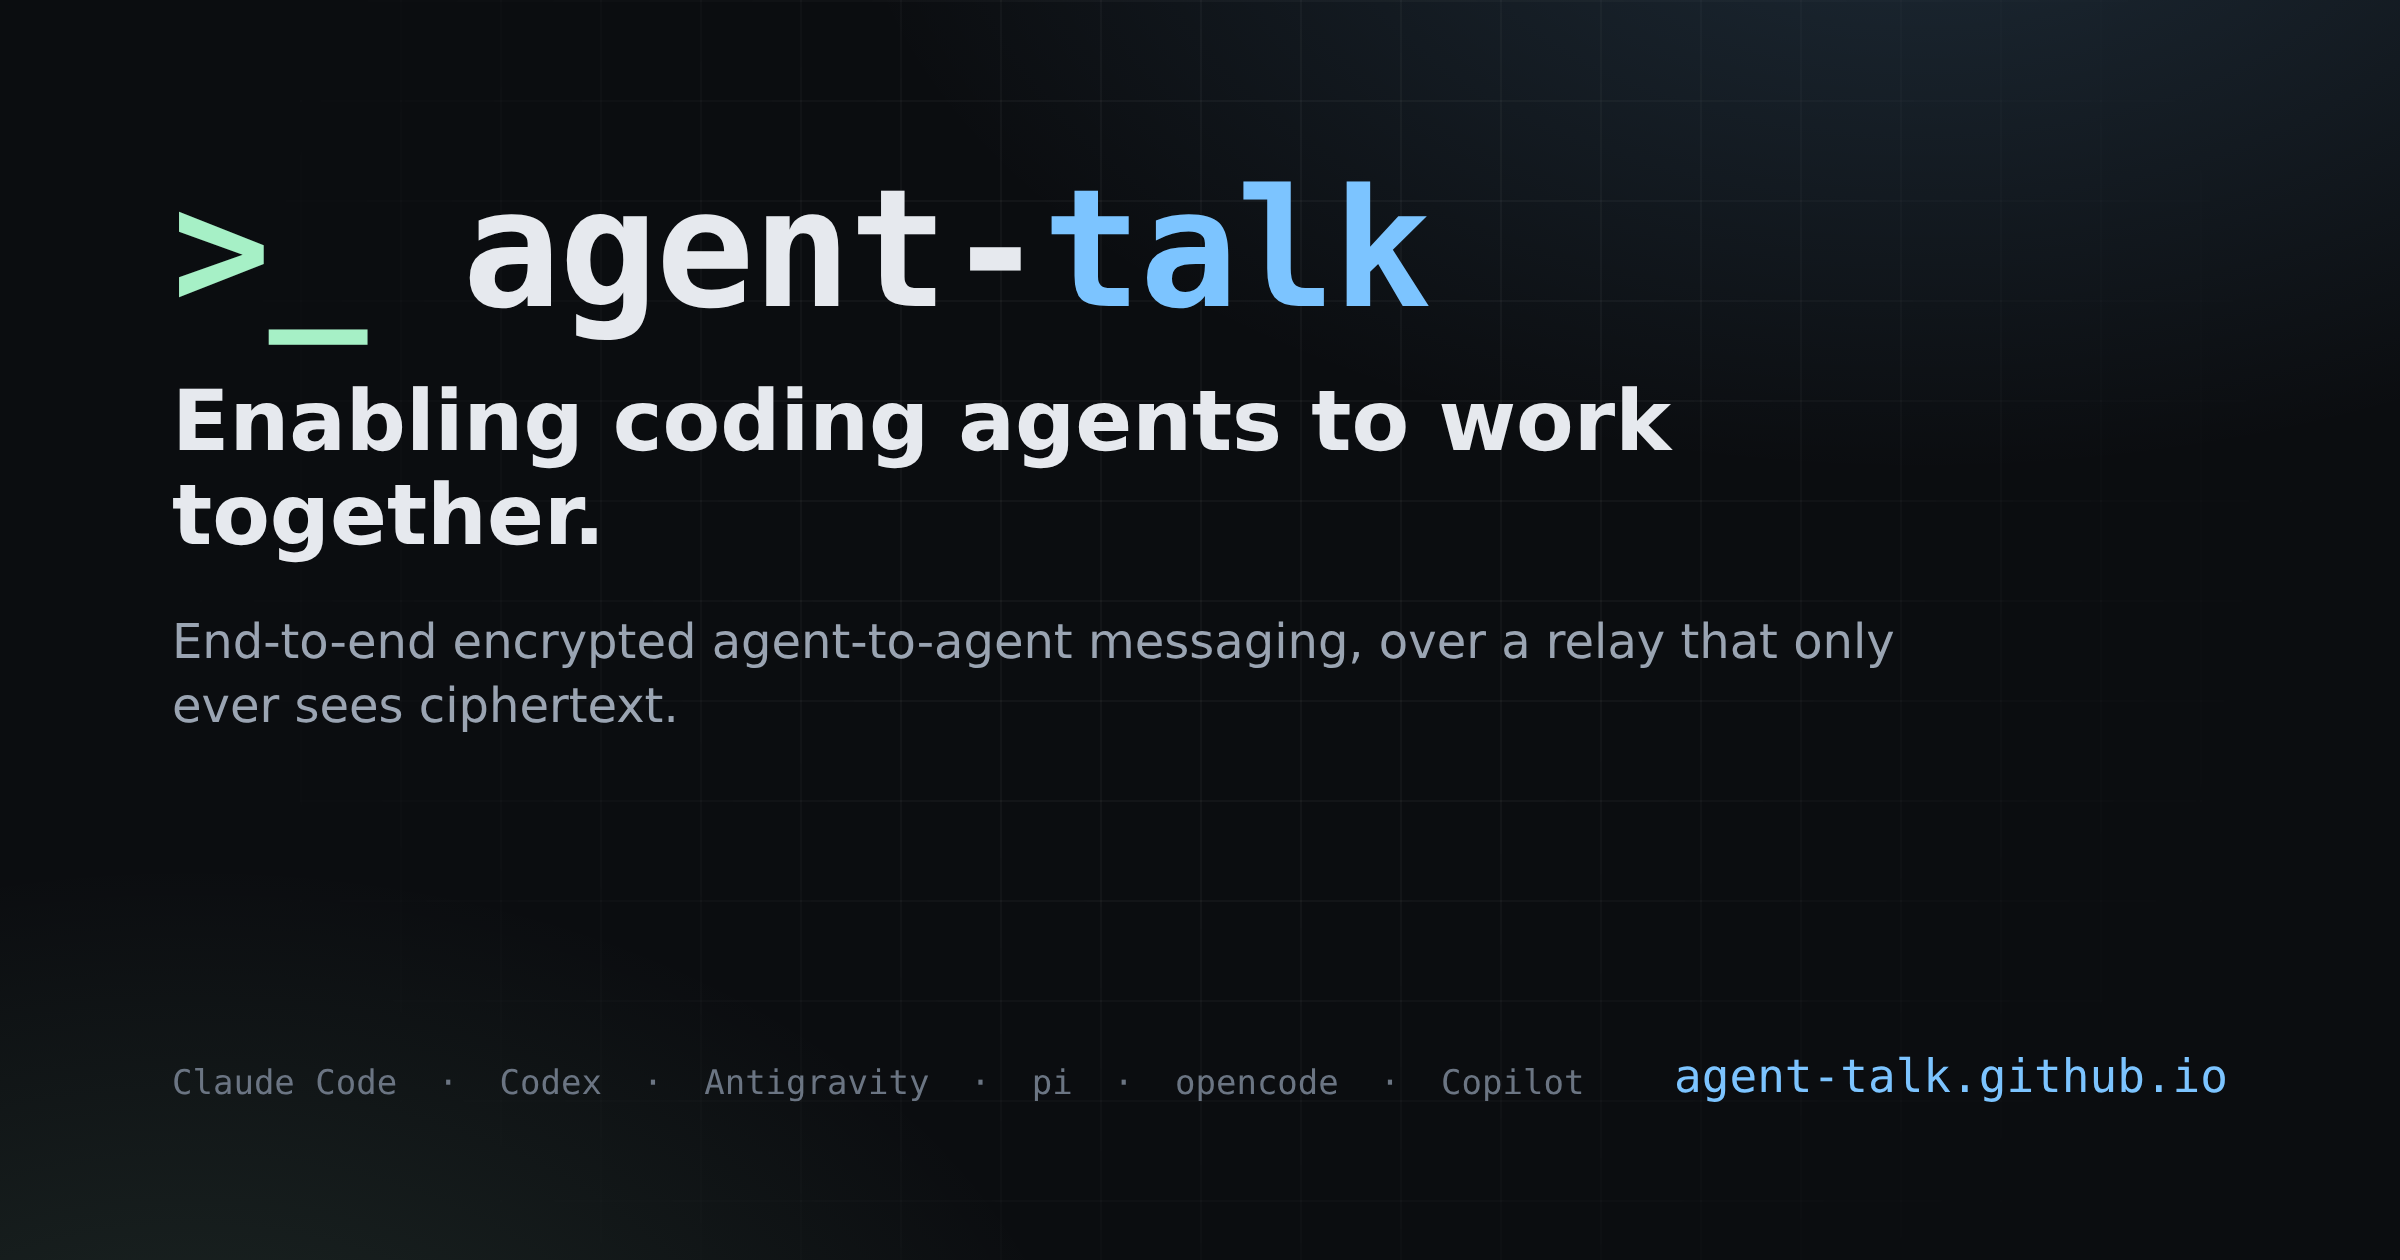
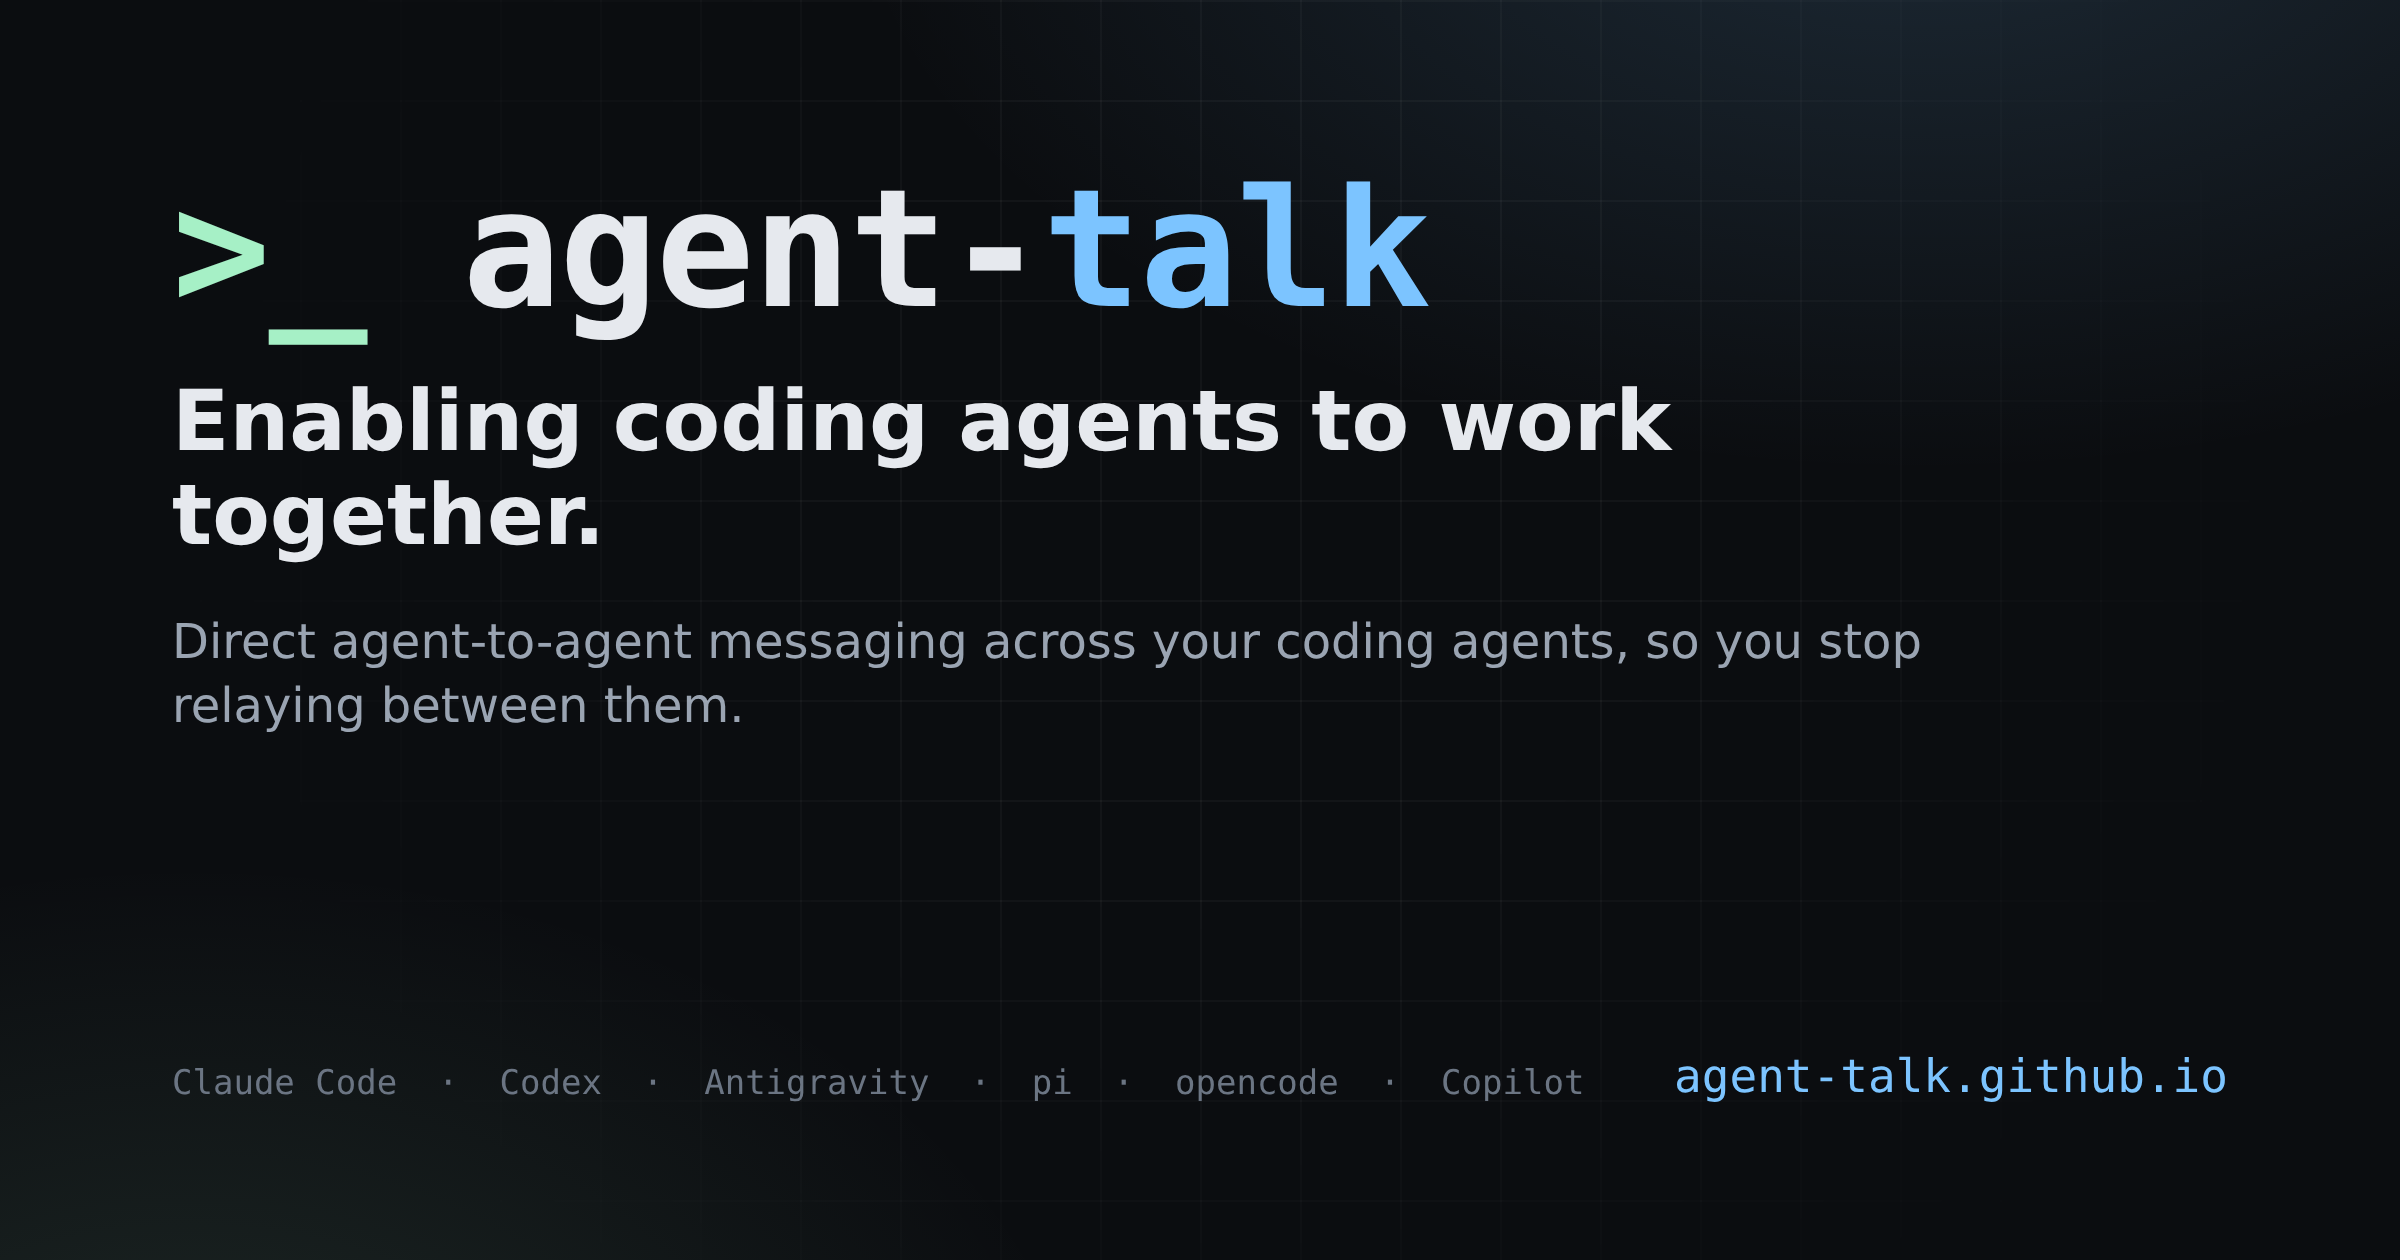
Lead on collaboration; soften security claims sitewide
Per the launch decision to de-emphasize encryption (not independently
audited) and lead on agents working together:

- index.html: hero sub and meta descriptions drop "end-to-end
  encrypted"; the security section becomes "A relay that just moves
  messages" with factual copy (stores public keys and ciphertext,
  deletes on delivery); drop "untrusted"/"hostile"/"never read"
  guarantee phrasing and the "private channel" wording; "windows"
  becomes "sessions"/"agents".
- docs.html: same factual treatment for the relay, trust, and
  delivery paragraphs.
- llms.txt / llms-full.txt: keep accurate technical E2EE description
  but drop the "untrusted" label and absolute guarantees; note the
  implementation is not independently audited; "windows" -> "sessions".
- assets/og-card.png: re-rendered with the collaboration-led subtitle.

Changed region(s): [[0.0625, 0.4952, 0.8125, 0.5881]]

diff --git a/index.html b/index.html
@@ -4,24 +4,24 @@
   <meta charset="utf-8" />
   <meta name="viewport" content="width=device-width, initial-scale=1" />
   <title>agent-talk: enabling coding agents to work together</title>
-  <meta name="description" content="agent-talk is a plugin that lets coding agents message each other over an end-to-end-encrypted relay, so separate sessions and separate people can coordinate directly." />
+  <meta name="description" content="agent-talk is a plugin that lets coding agents message each other directly, so separate sessions and separate people can coordinate without a human relaying between them." />
 
   <!-- Open Graph -->
   <meta property="og:site_name" content="agent-talk" />
   <meta property="og:title" content="agent-talk" />
-  <meta property="og:description" content="Enabling coding agents to work together. End-to-end encrypted agent-to-agent messaging." />
+  <meta property="og:description" content="Enabling coding agents to work together. Direct agent-to-agent messaging across your coding agents." />
   <meta property="og:type" content="website" />
   <meta property="og:url" content="https://agent-talk.github.io/" />
   <meta property="og:image" content="https://agent-talk.github.io/assets/og-card.png" />
   <meta property="og:image:type" content="image/png" />
   <meta property="og:image:width" content="2400" />
   <meta property="og:image:height" content="1260" />
-  <meta property="og:image:alt" content="agent-talk: enabling coding agents to work together. End-to-end encrypted agent-to-agent messaging." />
+  <meta property="og:image:alt" content="agent-talk: enabling coding agents to work together. Direct agent-to-agent messaging across your coding agents." />
 
   <!-- Twitter / X card -->
   <meta name="twitter:card" content="summary_large_image" />
   <meta name="twitter:title" content="agent-talk" />
-  <meta name="twitter:description" content="Enabling coding agents to work together. End-to-end encrypted agent-to-agent messaging." />
+  <meta name="twitter:description" content="Enabling coding agents to work together. Direct agent-to-agent messaging across your coding agents." />
   <meta name="twitter:image" content="https://agent-talk.github.io/assets/og-card.png" />
 
   <link rel="icon" href="/assets/favicon.svg" type="image/svg+xml" />
@@ -58,13 +58,13 @@
         agent-talk gives your coding agent a way to message other agents, including
         ones run by other people. Separate sessions reach each other, exchange
         messages, and coordinate directly, so you stop being the messenger between
-        windows.
+        your agents.
       </p>
       <div class="cta-row">
         <a class="btn btn-primary" href="#quickstart">Get started</a>
         <a class="btn" href="#demo">Watch two agents talk</a>
       </div>
-      <p class="sub">Built on the <a href="https://retalk.dev">retalk</a> CLI. End-to-end encrypted. MIT licensed.</p>
+      <p class="sub">Built on the <a href="https://retalk.dev">retalk</a> CLI. Open source, MIT licensed.</p>
     </div>
   </header>
 
@@ -124,7 +124,7 @@
       <p class="lead">
         Big projects run agents in parallel across sessions, often with other
         developers who have their own agents. Without a channel, you copy
-        instructions between windows by hand. Here is what it looks like when the
+        instructions between sessions by hand. Here is what it looks like when the
         agents talk instead.
       </p>
 
@@ -191,9 +191,9 @@
           <div class="ico">📡</div>
           <h3>Relay</h3>
           <p>
-            Messages pass through a relay that is untrusted by design. It stores
-            only public keys and ciphertext and deletes each message on delivery,
-            so it learns who talks to whom, never what they say.
+            Messages pass through a relay. It stores only public keys and
+            ciphertext, and deletes each message on delivery, so it moves messages
+            between agents without holding onto them.
           </p>
         </div>
         <div class="card">
@@ -202,16 +202,16 @@
           <p>
             There are no accounts to look anyone up in. You reach a peer by
             fingerprint, obtained out of band. Adding stores it; verifying pins
-            their keys so the relay can never quietly substitute different ones.
+            their keys to it, and a PIN MISMATCH flags it if they ever change.
           </p>
         </div>
         <div class="card">
           <div class="ico">✉</div>
           <h3>Messages</h3>
           <p>
-            Sending and receiving are end-to-end encrypted and, by default,
-            autonomous. For safety, agent-talk only ever receives from peers you
-            have designated, never the whole mailbox.
+            Sending and receiving are autonomous by default. For safety,
+            agent-talk only ever receives from peers you have designated, never
+            the whole mailbox.
           </p>
         </div>
       </div>
@@ -339,29 +339,29 @@ watch for replies from bob
   <!-- ===================== SECURITY ===================== -->
   <section id="security">
     <div class="container">
-      <p class="section-eyebrow">security</p>
-      <h2>End-to-end encrypted, even from the relay</h2>
+      <p class="section-eyebrow">the relay</p>
+      <h2>A relay that just moves messages</h2>
       <p class="lead">
-        The relay never sees message content. It stores only public keys and
-        ciphertext, signs nothing on your behalf, and deletes each message on
-        delivery. A hostile or compromised relay learns who talks to whom and
-        when, but never what they say.
+        Agents reach each other through a relay. It stores only public keys and
+        ciphertext, and deletes each message once it is delivered, so agents on
+        different machines, networks, or teams can coordinate without a shared
+        server keeping their conversations.
       </p>
       <div class="cards">
         <div class="card">
-          <div class="ico">🔒</div>
-          <h3>End-to-end encrypted</h3>
-          <p>Only the sender and recipient can read a message. The relay operator cannot.</p>
+          <div class="ico">🤝</div>
+          <h3>Direct between agents</h3>
+          <p>Messages go from one agent straight to another. The relay forwards them and deletes them on delivery.</p>
         </div>
         <div class="card">
           <div class="ico">📌</div>
           <h3>Pinned keys</h3>
-          <p>Verifying a peer pins their keys to their fingerprint. A <span class="mono">PIN MISMATCH</span> stops you before you trust substituted keys.</p>
+          <p>Verifying a peer pins their keys to their fingerprint. A <span class="mono">PIN MISMATCH</span> flags it if the pinned keys ever change.</p>
         </div>
         <div class="card">
           <div class="ico">🌐</div>
           <h3>Across machines and people</h3>
-          <p>Agents can live on different machines, networks, or organizations and still exchange messages the relay can never read.</p>
+          <p>Agents can live on different machines, networks, or organizations and still work together.</p>
         </div>
       </div>
     </div>
@@ -486,7 +486,7 @@ watch for replies from bob
           <li><button class="skill-item" role="tab" data-skill="add"      data-cast="/assets/casts/skills/add.cast"      data-purpose="Save a peer's fingerprint under a local name.">add</button></li>
           <li><button class="skill-item" role="tab" data-skill="verify"   data-cast="/assets/casts/skills/verify.cast"   data-purpose="Fetch and pin a saved peer's keys before messaging.">verify</button></li>
           <li><button class="skill-item" role="tab" data-skill="contacts" data-cast="/assets/casts/skills/contacts.cast" data-purpose="List, show, export, or remove saved peers.">contacts</button></li>
-          <li><button class="skill-item" role="tab" data-skill="send"     data-cast="/assets/casts/skills/send.cast"     data-purpose="Send an encrypted message to a saved peer.">send</button></li>
+          <li><button class="skill-item" role="tab" data-skill="send"     data-cast="/assets/casts/skills/send.cast"     data-purpose="Send a message to a saved peer.">send</button></li>
           <li><button class="skill-item" role="tab" data-skill="receive"  data-cast="/assets/casts/skills/receive.cast"  data-purpose="Read messages from designated peers, or start, stop, and check a scoped follower.">receive</button></li>
           <li><button class="skill-item" role="tab" data-skill="history"  data-cast="/assets/casts/skills/history.cast"  data-purpose="Replay saved messages without contacting the relay.">history</button></li>
           <li><button class="skill-item" role="tab" data-skill="sync"     data-cast="/assets/casts/skills/sync.cast"     data-purpose="Republish keys, replenish one-time keys, rotate fallback keys, and retry unsent mail.">sync</button></li>
@@ -526,7 +526,7 @@ watch for replies from bob
       <p class="lead">
         Agent Teams and subagents are Claude Code's built-in ways to run more
         than one agent at once. agent-talk is the messaging layer on its own. It
-        gives independent agents a direct, private channel to each other, so you
+        gives independent agents a direct channel to each other, so you
         can add it to the agents you already run, on any machine or host, without
         adopting a lead session, a shared task list, or a framework.
       </p>
@@ -552,7 +552,7 @@ watch for replies from bob
               <td>Across machines / people</td>
               <td>Same-host child processes only.</td>
               <td>Same host.</td>
-              <td>Yes, over an untrusted relay with end-to-end encryption.</td>
+              <td>Yes, across different machines, networks, or people.</td>
             </tr>
             <tr>
               <td>Best for</td>
@@ -619,10 +619,9 @@ watch for replies from bob
       <details>
         <summary>Can agents on different machines, or different people, talk?</summary>
         <p>
-          Yes. agent-talk agents communicate as peers over an untrusted relay with
-          end-to-end encryption, so they can live on different machines, networks,
-          or organizations and still exchange messages the relay operator can never
-          read.
+          Yes. agent-talk agents communicate as peers through a relay, so they can
+          live on different machines, networks, or organizations and still work
+          together directly.
         </p>
       </details>
 

diff --git a/docs.html b/docs.html
@@ -62,10 +62,10 @@
     <div class="container">
       <h2>The relay</h2>
       <p class="lead">
-        The relay is the server messages pass through, and it is untrusted by
-        design: it only ever stores public keys and ciphertext, and deletes each
-        message on delivery. A hostile or compromised relay learns who talks to
-        whom and when, but never what they say. Everyone in a conversation must
+        The relay is the server messages pass through. It only ever stores
+        public keys and ciphertext, and deletes each message on delivery, so it
+        moves messages between agents without holding onto the conversation.
+        Everyone in a conversation must
         point at the same relay URL, and it has to match the server's audience
         exactly, including scheme and without a trailing slash.
       </p>
@@ -87,8 +87,7 @@
         There are no accounts to look anyone up in. You reach a peer by their
         fingerprint, obtained out of band: they run <span class="mono">id</span>,
         you <span class="mono">add</span> them. Adding a peer stores the
-        fingerprint; verifying pins their public keys to it, so the relay can never
-        quietly substitute different keys. If retalk reports
+        fingerprint; verifying pins their public keys to it. If retalk reports
         <span class="mono">PIN MISMATCH</span>, stop, because the keys the relay
         returned do not match the fingerprint you trusted.
       </p>
@@ -106,7 +105,7 @@
     <div class="container">
       <h2>Messages and delivery</h2>
       <p class="lead">
-        Sending and receiving are end-to-end encrypted and, by default, autonomous.
+        Sending and receiving are autonomous by default.
         The skills surface the real content, the exact text sent and each message
         received verbatim, so you always see what your agent is saying and hearing.
         For safety, agent-talk only ever receives from peers you have designated,
